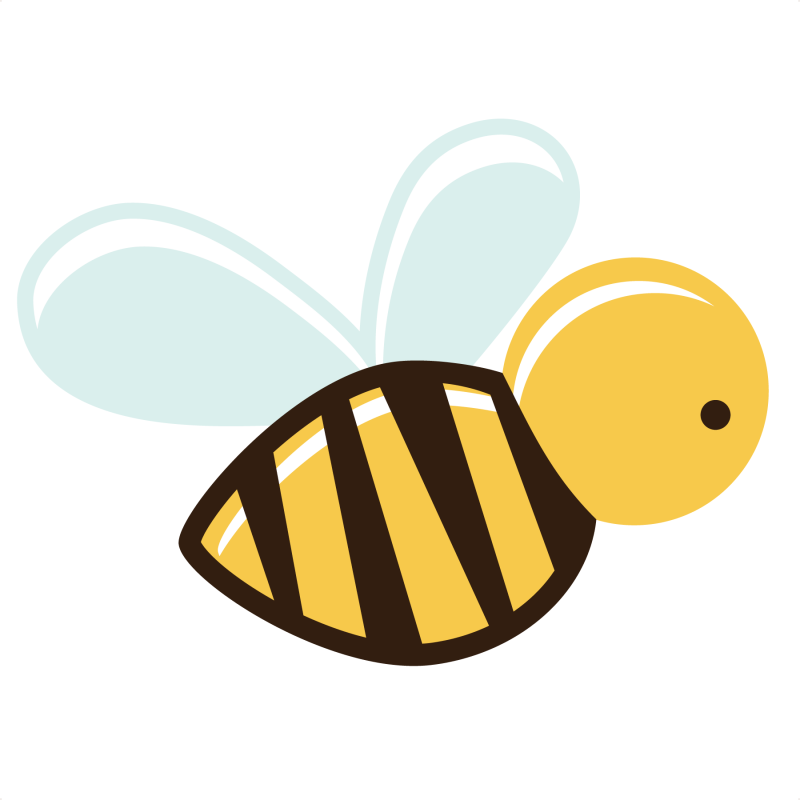
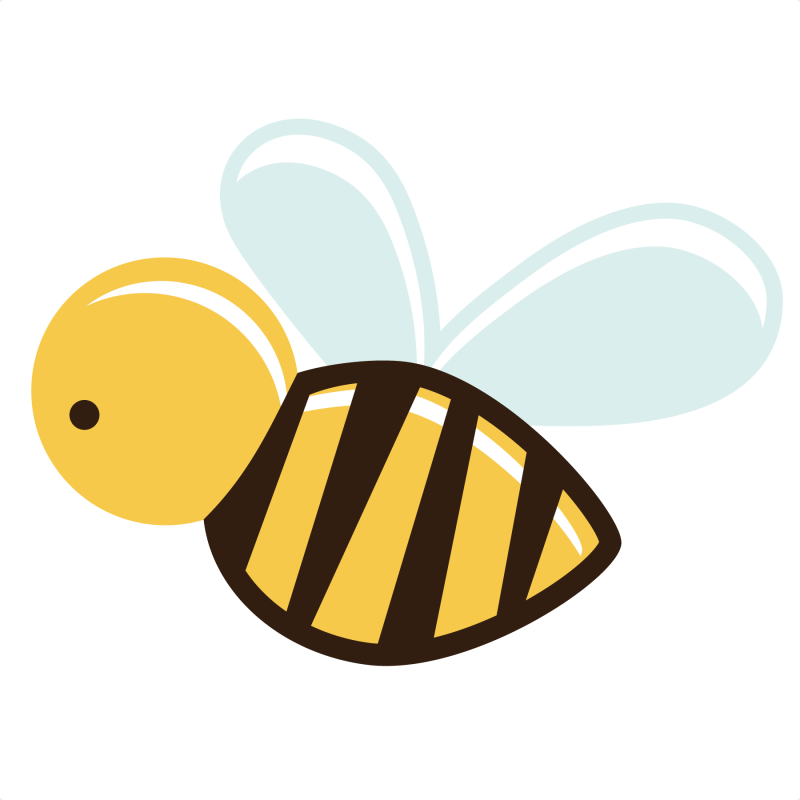
E3: Flipped the image of the both hibiscus and bee
I flipped the images and gave them a new x and y axis. The bee now begins from the right, and the hibiscus now sits in the bottom left corner. So now the bee will have to avoid the birds from eating it; the birds forging, as always, from left to right.

diff --git a/Exercises/Exercise3/js/script.js b/Exercises/Exercise3/js/script.js
@@ -10,7 +10,7 @@ OCT. 2020
 // Variables
 let beeImg;
 let bee = {
-  x: 300,
+  x: 760,
   y: 250,
   size: 100,
   vx: 0,
@@ -28,7 +28,7 @@ let bird1 = {
   vy: 0,
   speed: 4.5,
   img: bird1Img
-}
+};
 
 let bird2Img;
 let bird2 = {
@@ -39,7 +39,7 @@ let bird2 = {
   vy: 0,
   speed: 4.5,
   img: bird2Img
-}
+};
 
 let bird3Img;
 let bird3 = {
@@ -50,7 +50,7 @@ let bird3 = {
   vy: 0,
   speed: 4.5,
   img: bird3Img
-}
+};
 
 let bird4Img;
 let bird4 = {
@@ -61,7 +61,18 @@ let bird4 = {
   vy: 0,
   speed: 5,
   img: bird4Img
-}
+};
+
+let hibiscusImg;
+let hibiscus = {
+  x: 70,
+  y: 420,
+  size: 200,
+  vx: 0,
+  vy: 0,
+  // speed: 5,
+  img: hibiscusImg
+};
 
 let bg;
 let bgLeft = 0;
@@ -76,6 +87,7 @@ function preload() {
   bird2Img = loadImage('assets/images/bird2.png');
   bird3Img = loadImage('assets/images/bird3.png');
   bird4Img = loadImage('assets/images/bird4.png');
+  hibiscusImg = loadImage('assets/images/hibiscus.png');
 }
 
 
@@ -83,6 +95,7 @@ function setup() {
   createCanvas(800, 500);
 
   setupBirds();
+  hibiscusAppearance();
 }
 
 function setupBirds() {
@@ -90,6 +103,11 @@ function setupBirds() {
   bird2.vx = random(0.5, bird2.speed);
   bird3.vx = random(0.8, bird3.speed);
   bird4.vx = random(0.8, bird4.speed);
+}
+
+function hibiscusAppearance(){
+  hibiscus.x -= hibiscus.vx;
+  hibiscus.y += hibiscus.vy;
 }
 
 function draw() {
@@ -176,16 +194,21 @@ function draw() {
     }
   }
 
-
+  // Display of bee and birds
   function display() {
     imageMode(CENTER);
+    image(hibiscusImg, hibiscus.x, hibiscus.y, hibiscus.size, hibiscus.size);
     image(beeImg, bee.x, bee.y, bee.size, bee.size);
     image(bird1Img, bird1.x, bird1.y, bird1.size, bird1.size);
     image(bird2Img, bird2.x, bird2.y, bird2.size, bird2.size);
     image(bird3Img, bird3.x, bird3.y, bird3.size, bird3.size);
     image(bird4Img, bird4.x, bird4.y, bird4.size, bird4.size);
 
+
     // ellipse(bird2.x, bird2.y, bird2.size);
   }
 
 }
+
+
+//NOTES
